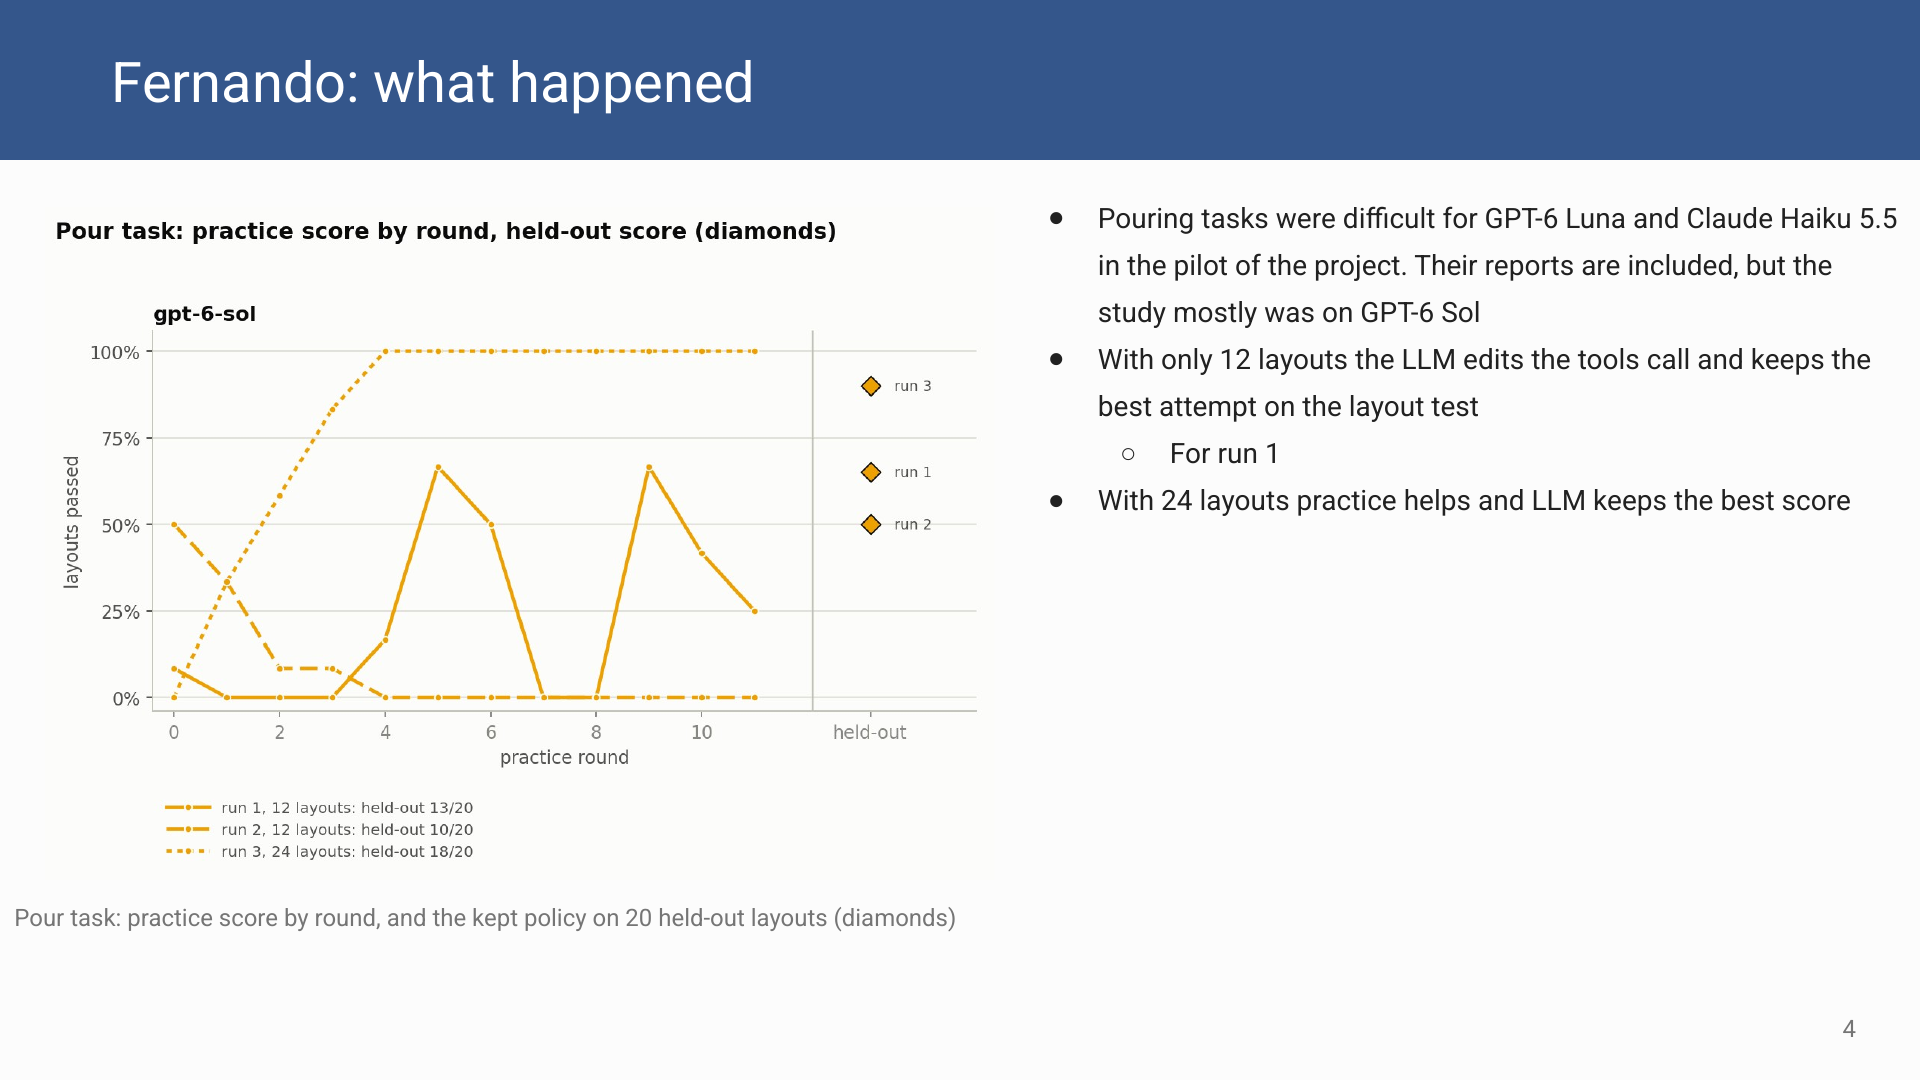
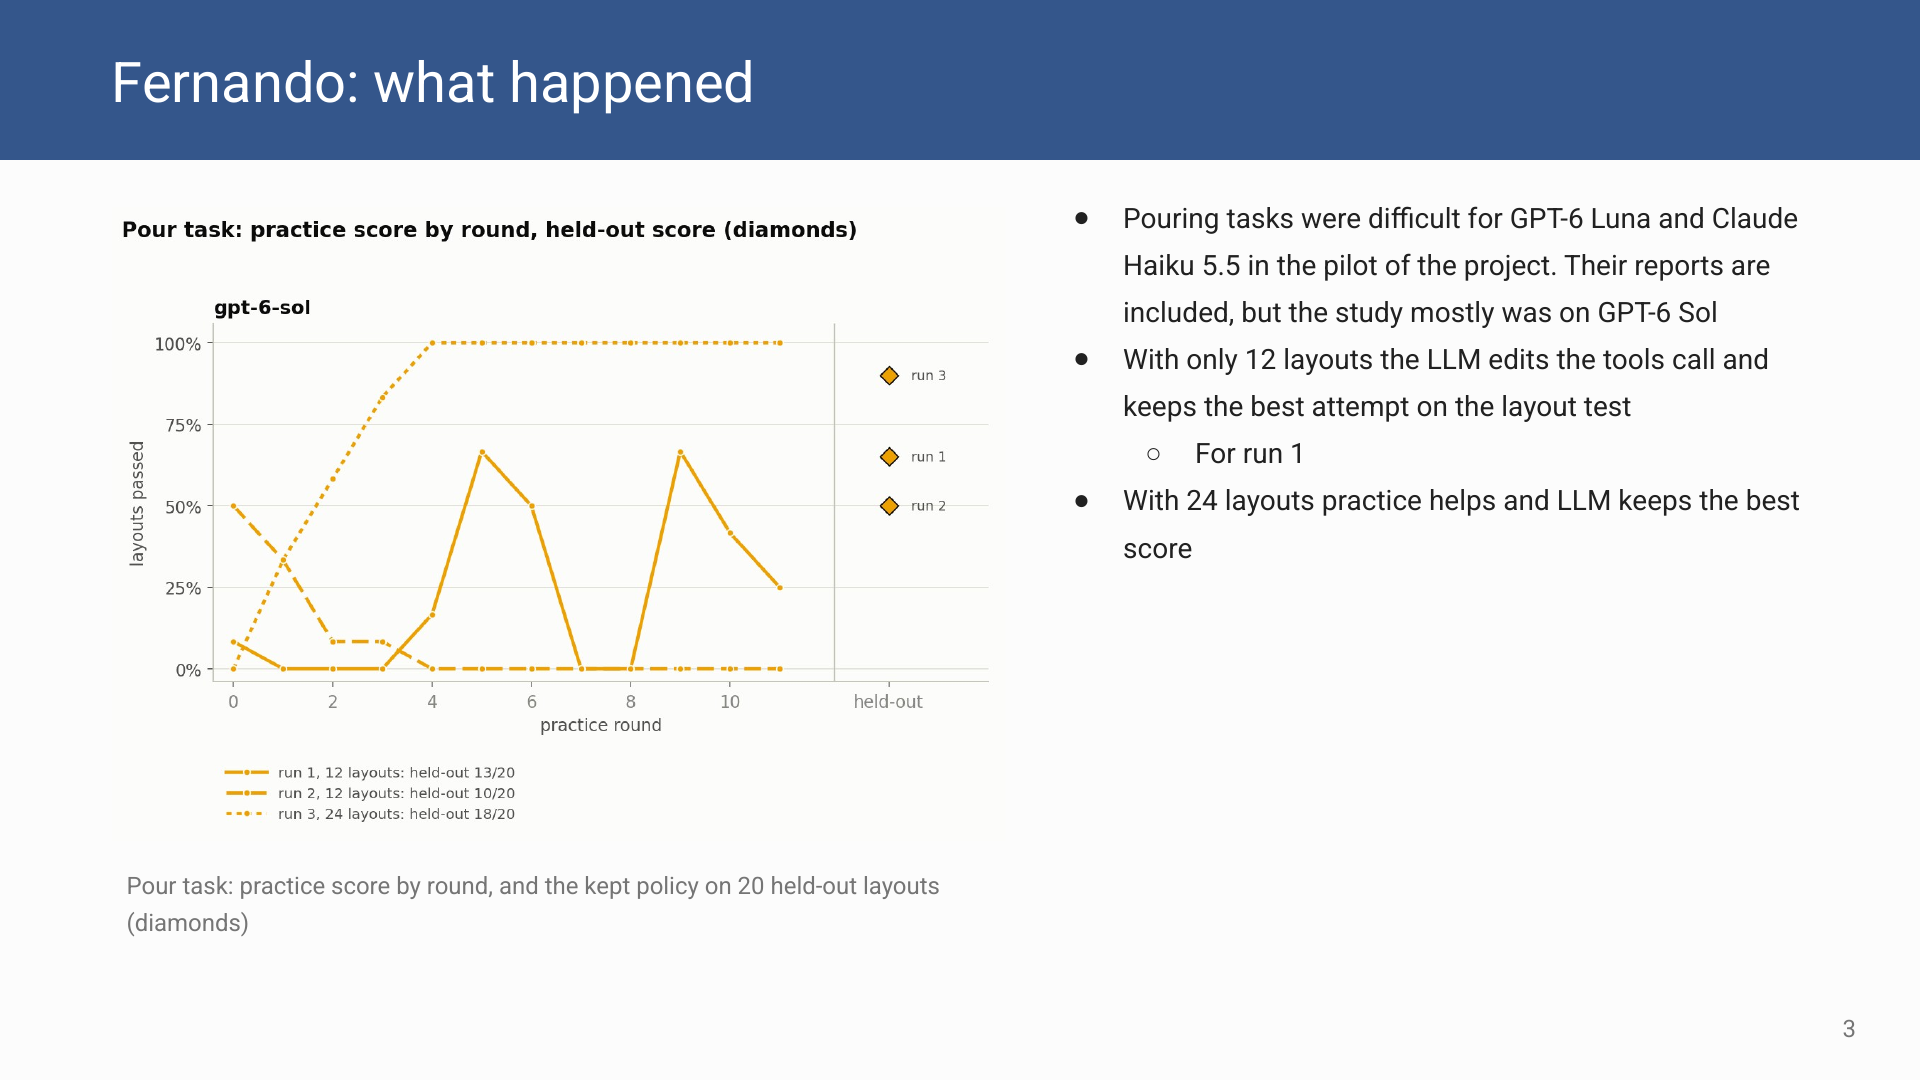
Make the slides consistent
Henry's name on his two findings slides, page numbers corrected (they
were one too high), headings and text on the same left margin, one
bullet style, plain grey captions, and slide 8's subheading styled like
the other slides' lead lines.

diff --git a/index.html b/index.html
@@ -34,15 +34,15 @@ a { color: #34568B; }
 </header>
 <main class="deck">
 <figure class="frame"><img class="slide" src="slides/slide-01.png" alt="Slide 1. Robot Manipulation Evals Three student projects testing how well AI models handle hands-on robot work in simulation. Fernando Lerma Martinez Adyaa Khera Henry Williams A model writes the robot’s code A model directs each move A model checks each step MuJoCo, two YAM arms Isaac Sim, two YAM arms Isaac Sim, two ViperX arms Lab bench tasks: vials, snap caps, salt FLS peg transfer, a surgical skills test Pipette, plate grip and plate cart checks This is a presentation overview of three projects members of our team have worked on since coming together last month to build up our application Our experience in robotics goes greatly beyond these projects, with a healthy variety of specialties between team members, but we feel these projects are the most directly relevant as it shows our collaboration as a team You will find more detailed links for these projects at the end of the document if you are interested to look further" width="1920" height="1080"></figure>
-<figure class="frame"><img class="slide" src="slides/slide-02.png" alt="Slide 2. Fernando: LLM writes the robot’s code based on feedback Can an AI model get better at a lab task by practicing? Self-evolving Code-as-policy, based on SEAR paper. The LLM model writes the program to run two simulated YAM arms, is given details of previous round as feedback It practices in 12 rounds on different layouts (variations of the same task scenario). There are 12 or 24 layouts tested on each round. Layouts are kept between rounds After the final round the program with the best score is tested once on 20 layouts it never saw Tasks: move a vial, open a snap cap, weigh out salt with both arms Setup MuJoCo 3.5, on A10 nodes of Purdue’s Gilbreth cluster Two I2RT YAM arms (MuJoCo Menagerie model) GPT-6 Luna, GPT-6 Sol, Claude Haiku 5.5 Weighing task and open a snap-cap tube, hand-written reference solution, 6× speed" width="1920" height="1080" loading="lazy"><img class="clip" src="clips/slide-02-clip-1.gif" alt="Two simulated YAM arms pass a vial of salt between them and pour it onto a balance" loading="lazy" style="left:64.863%;top:16.853%;width:29.166%;height:38.888%"><img class="clip" src="clips/slide-02-clip-2.gif" alt="Clip from the slide" loading="lazy" style="left:64.863%;top:57.778%;width:29.166%;height:38.889%"><a class="hit" href="https://sear.bot/" target="_blank" rel="noopener" aria-label="Open link: https://sear.bot/" style="left:27.635%;top:31.081%;width:3.720%;height:2.548%"></a></figure>
+<figure class="frame"><img class="slide" src="slides/slide-02.png" alt="Slide 2. Fernando: LLM writes the robot’s code based on feedback Can an AI model get better at a lab task by practicing? Self-evolving Code-as-policy, based on SEAR paper. The LLM model writes the program to run two simulated YAM arms, is given details of previous round as feedback It practices in 12 rounds on different layouts (variations of the same task scenario). There are 12 or 24 layouts tested on each round. Layouts are kept between rounds After the final round the program with the best score is tested once on 20 layouts it never saw Tasks: move a vial, open a snap cap, weigh out salt with both arms Setup MuJoCo 3.5, on A10 nodes of Purdue’s Gilbreth cluster Two I2RT YAM arms (MuJoCo Menagerie model) GPT-6 Luna, GPT-6 Sol, Claude Haiku 5.5 Weighing task and open a snap-cap tube, hand-written reference solution, 6× speed" width="1920" height="1080" loading="lazy"><img class="clip" src="clips/slide-02-clip-1.gif" alt="Two simulated YAM arms pass a vial of salt between them and pour it onto a balance" loading="lazy" style="left:64.863%;top:16.853%;width:29.166%;height:38.888%"><img class="clip" src="clips/slide-02-clip-2.gif" alt="Clip from the slide" loading="lazy" style="left:64.863%;top:57.778%;width:29.166%;height:38.889%"><a class="hit" href="https://sear.bot/" target="_blank" rel="noopener" aria-label="Open link: https://sear.bot/" style="left:27.641%;top:31.081%;width:3.720%;height:2.548%"></a></figure>
 <figure class="frame"><img class="slide" src="slides/slide-03.png" alt="Slide 3. Fernando: what happened Pouring tasks were difficult for GPT-6 Luna and Claude Haiku 5.5 in the pilot of the project. Their reports are included, but the study mostly was on GPT-6 Sol With only 12 layouts the LLM edits the tools call and keeps the best attempt on the layout test For run 1 With 24 layouts practice helps and LLM keeps the best score Pour task: practice score by round, and the kept policy on 20 held-out layouts (diamonds)" width="1920" height="1080" loading="lazy"></figure>
 <figure class="frame"><img class="slide" src="slides/slide-04.png" alt="Slide 4. Fernando: what we learned Takeaways Practice helped Pouring was the hard part, and only Sol came close to the hand-written reference Moving a vial was too easy to show anything With 24 layouts, it improved and the best score was kept, probably because More feedback A “lucky” round is less probable to be kept Limitations The model got exact positions from the simulator, not camera images Everything ran in simulation, with a few runs per setup Pouring salt, hand-written reference solution, 6× speed What next? More layouts &amp; models Use these scripts to collect camera demonstrations and fine-tune a vision-language-action model, starting with the hand-over, which already works every time" width="1920" height="1080" loading="lazy"><img class="clip" src="clips/slide-04-clip-1.gif" alt="Clip from the slide" loading="lazy" style="left:64.960%;top:17.037%;width:30.321%;height:40.428%"></figure>
-<figure class="frame"><img class="slide" src="slides/slide-05.png" alt="Slide 5. Adyaa: Can AI Models Pass A Surgical Test? Can AI models control a pair of manipulators and pass a surgical skills test from photos alone? The Setup Two YAM arms in Isaac Sim perform the peg transfer from the surgeons’ Fundamentals of Laparoscopic Surgery exam; 6 pegs, 12 transfers Two models (OpenAI’s GPT-6.1 Sol and Anthropic’s Claude Opus 5.5) tested against each other and a stand-in model for accuracy and performance Each turn the model sees an overhead photo with a millimetre grid + wrist camera photos The models decide each pick, a mid-air transfer and a place, then a controller moves the arms One transfer by Claude Opus 5.5, 2× speed Isaac Sim 6.0.1, run on A10 nodes of Purdue’s Gilbreth cluster Two I2RT YAM arms GPT-6.1 Sol and Claude Opus 5.5, medium thinking 3 rounds per model, plus 3 scripted baseline runs FLS Instructions and Guidelines. Source: FLS Manual Skills Written Instructions and Performance Guidelines" width="1920" height="1080" loading="lazy"><img class="clip" src="clips/slide-05-clip-1.gif" alt="Two black YAM arms pass a red triangle mid-air and place it on a peg" loading="lazy" style="left:62.917%;top:20.197%;width:31.250%;height:31.296%"><a class="hit" href="https://www.flsprogram.org/wp-content/uploads/2014/03/Revised-Manual-Skills-Guidelines-February-2014.pdf" target="_blank" rel="noopener" aria-label="Open link: https://www.flsprogram.org/wp-content/uploads/2014/03/Revised-Manual-Skills-Guidelines-February-2014.pdf" style="left:84.608%;top:90.393%;width:10.192%;height:2.364%"></a><a class="hit" href="https://www.flsprogram.org/wp-content/uploads/2014/03/Revised-Manual-Skills-Guidelines-February-2014.pdf" target="_blank" rel="noopener" aria-label="Open link: https://www.flsprogram.org/wp-content/uploads/2014/03/Revised-Manual-Skills-Guidelines-February-2014.pdf" style="left:62.583%;top:93.411%;width:25.404%;height:2.364%"></a></figure>
+<figure class="frame"><img class="slide" src="slides/slide-05.png" alt="Slide 5. Adyaa: Can AI Models Pass A Surgical Test? Can AI models control a pair of manipulators and pass a surgical skills test from photos alone? The Setup Two YAM arms in Isaac Sim perform the peg transfer from the surgeons’ Fundamentals of Laparoscopic Surgery exam; 6 pegs, 12 transfers Two models (OpenAI’s GPT-6.1 Sol and Anthropic’s Claude Opus 5.5) tested against each other and a stand-in model for accuracy and performance Each turn the model sees an overhead photo with a millimetre grid + wrist camera photos The models decide each pick, a mid-air transfer and a place, then a controller moves the arms One transfer by Claude Opus 5.5, 2× speed Isaac Sim 6.0.1, run on A10 nodes of Purdue’s Gilbreth cluster Two I2RT YAM arms GPT-6.1 Sol and Claude Opus 5.5, medium thinking 3 rounds per model, plus 3 scripted baseline runs FLS Instructions and Guidelines. Source: FLS Manual Skills Written Instructions and Performance Guidelines" width="1920" height="1080" loading="lazy"><img class="clip" src="clips/slide-05-clip-1.gif" alt="Two black YAM arms pass a red triangle mid-air and place it on a peg" loading="lazy" style="left:62.917%;top:20.197%;width:31.250%;height:31.296%"><a class="hit" href="https://www.flsprogram.org/wp-content/uploads/2014/03/Revised-Manual-Skills-Guidelines-February-2014.pdf" target="_blank" rel="noopener" aria-label="Open link: https://www.flsprogram.org/wp-content/uploads/2014/03/Revised-Manual-Skills-Guidelines-February-2014.pdf" style="left:85.249%;top:90.262%;width:10.053%;height:2.521%"></a><a class="hit" href="https://www.flsprogram.org/wp-content/uploads/2014/03/Revised-Manual-Skills-Guidelines-February-2014.pdf" target="_blank" rel="noopener" aria-label="Open link: https://www.flsprogram.org/wp-content/uploads/2014/03/Revised-Manual-Skills-Guidelines-February-2014.pdf" style="left:62.581%;top:93.280%;width:28.511%;height:2.521%"></a></figure>
 <figure class="frame"><img class="slide" src="slides/slide-06.png" alt="Slide 6. Adyaa: Results? In our runs, Claude Opus 5.5 did better because it chained several actions in one turn. GPT-6.1 Sol placed the pegs more precisely but used one action per turn and ran out of turns every time. Rounds 1 to 3   Scripted baseline   GPT-6.1 Sol   Claude Opus 5.5 Transfers done, of 12   12, 12, 12   6, 5, 5   12, 10, 12 Actions per turn   3.0   1.0   3.1 to 4.6 Mean placement error   0 mm   1.2 to 2.9 mm   3.0 to 4.8 mm Reward, of 100   76.1, 74.6, 75.9   50.1, 46.0, 45.1   67.0, 51.4, 58.3 Cost for 3 rounds   $0   $0.33   $2.44 Model performance vs time for both the models, three rounds each. Opus 5.5 is capable of making a speedy recovery even after huge negative rewards whereas GPT-6.1 Sol recovers slowly. Opus 5.5 leads every round by a huge margin. Same three boards for every column. Different peg orientation every time" width="1920" height="1080" loading="lazy"></figure>
 <figure class="frame"><img class="slide" src="slides/slide-07.png" alt="Slide 7. Adyaa: What did we learn? Both models stayed below the scripted baseline of 76. Best run was rewarded 67.0 by Claude Opus 5.5, round 1 Both got slightly better but the reward didn’t increase as changed orientations caused more contacts. Limits The model got photos and word feedback only, no depth or coordinates One run per round, on three boards, different peg orientations each board Next Version 3: no grid, an angled camera like a laparoscope, and both arms working at once All runs in a comparison view. The left panels are GPT-6.1 Sol and the right are Claude Opus 5.5. GPT-6.1 Sol always ends early because of not chaining actions. What the model sees each turn, first turn to last" width="1920" height="1080" loading="lazy"><img class="clip" src="clips/slide-07-clip-1.gif" alt="The overhead photo of the peg board with a millimetre grid, as the model saw it at each turn" loading="lazy" style="left:10.237%;top:67.976%;width:40.129%;height:26.396%"><img class="clip" src="clips/slide-07-clip-2.gif" alt="Clip from the slide" loading="lazy" style="left:65.375%;top:19.259%;width:31.291%;height:53.672%"></figure>
 <figure class="frame"><img class="slide" src="slides/slide-08.png" alt="Slide 8. Henry: Can a small vision model tell when a lab robot’s step went wrong? Tested across 3 scenes: Pipette and well plate Two-arm plate grip Plate on a cart A wrong yes dispenses onto the plate, not into the well A wrong yes moves a plate that isn’t held evenly A wrong yes moves on with a plate that isn’t seated Isaac Sim · 507 images · 8 camera views · GPT-6 Luna and Claude Haiku 5.5 · 3 prompts × 3 thinking levels · 9,126 calls" width="1920" height="1080" loading="lazy"></figure>
-<figure class="frame"><img class="slide" src="slides/slide-09.png" alt="Slide 9. Findings: A comparison between Luna and Haiku’s ability to disclose limitations Figure 1. A breakdown of “can’t tell” as an answer by thinking levels and model Figure 2. Example images for scenes 1, 2, and 3 respectively for when there is not enough information Baseline was larger models and human reviewers that were tested to see whether they can conclude enough information from either of the scenes. When the camera can’t show the answer, the models often answer anyway. Haiku was far more willing to say “can’t tell”. The models answered most when the picture gave them something to go on." width="1920" height="1080" loading="lazy"></figure>
-<figure class="frame"><img class="slide" src="slides/slide-10.png" alt="Slide 10. Findings: Prompt sensitivity Haiku is very sensitive to the prompt. With the safety warning it approved almost nothing in all three scenes, good steps included. Luna barely reacts when the camera shows the answer. It still approved 13 of 30 bad tips under the safety warning. With thinking off, the prompt works better on Luna. On the hidden overhead view its wrong approvals fell from 13 to 0, versus 21 to 11 at high thinking. P0 base prompt · P2 adds a “can’t tell” sentence · P5 adds a warning that the materials are hazardous. A later, separate run at max thinking approved 59 of 60, including all 30 not in a well." width="1920" height="1080" loading="lazy"></figure>
+<figure class="frame"><img class="slide" src="slides/slide-09.png" alt="Slide 9. Henry: Luna and Haiku’s ability to disclose limitations Figure 1. A breakdown of “can’t tell” as an answer by thinking levels and model Figure 2. Example images for scenes 1, 2, and 3 respectively for when there is not enough information Baseline was larger models and human reviewers that were tested to see whether they can conclude enough information from either of the scenes. When the camera can’t show the answer, the models often answer anyway. Haiku was far more willing to say “can’t tell”. The models answered most when the picture gave them something to go on." width="1920" height="1080" loading="lazy"></figure>
+<figure class="frame"><img class="slide" src="slides/slide-10.png" alt="Slide 10. Henry: Prompt sensitivity Haiku is very sensitive to the prompt. With the safety warning it approved almost nothing in all three scenes, good steps included. Luna barely reacts when the camera shows the answer. It still approved 13 of 30 bad tips under the safety warning. With thinking off, the prompt works better on Luna. On the hidden overhead view its wrong approvals fell from 13 to 0, versus 21 to 11 at high thinking. P0 base prompt · P2 adds a “can’t tell” sentence · P5 adds a warning that the materials are hazardous. A later, separate run at max thinking approved 59 of 60, including all 30 not in a well." width="1920" height="1080" loading="lazy"></figure>
 <figure class="frame"><img class="slide" src="slides/slide-11.png" alt="Slide 11. Tools across the three projects Fernando   Adyaa   Henry Simulator   MuJoCo 3.5   Isaac Sim   Isaac Sim Robot   Two I2RT YAM arms   Two I2RT YAM arms   ViperX 300 Models   GPT-6 Luna, GPT-6 Sol, Claude Haiku 5.5, Qwen3.8-27B   GPT-6.1 Sol, Claude Opus 5.5   GPT-6 Luna, Claude Haiku 5.5 Scoring   20 held-out layouts per run, against a hand-written reference   Transfers, reward and contacts, against a scripted baseline   Answer key from the 3D geometry All three: jobs on A10 GPU nodes of Purdue’s Gilbreth cluster." width="1920" height="1080" loading="lazy"></figure>
 </main>
 <footer>
